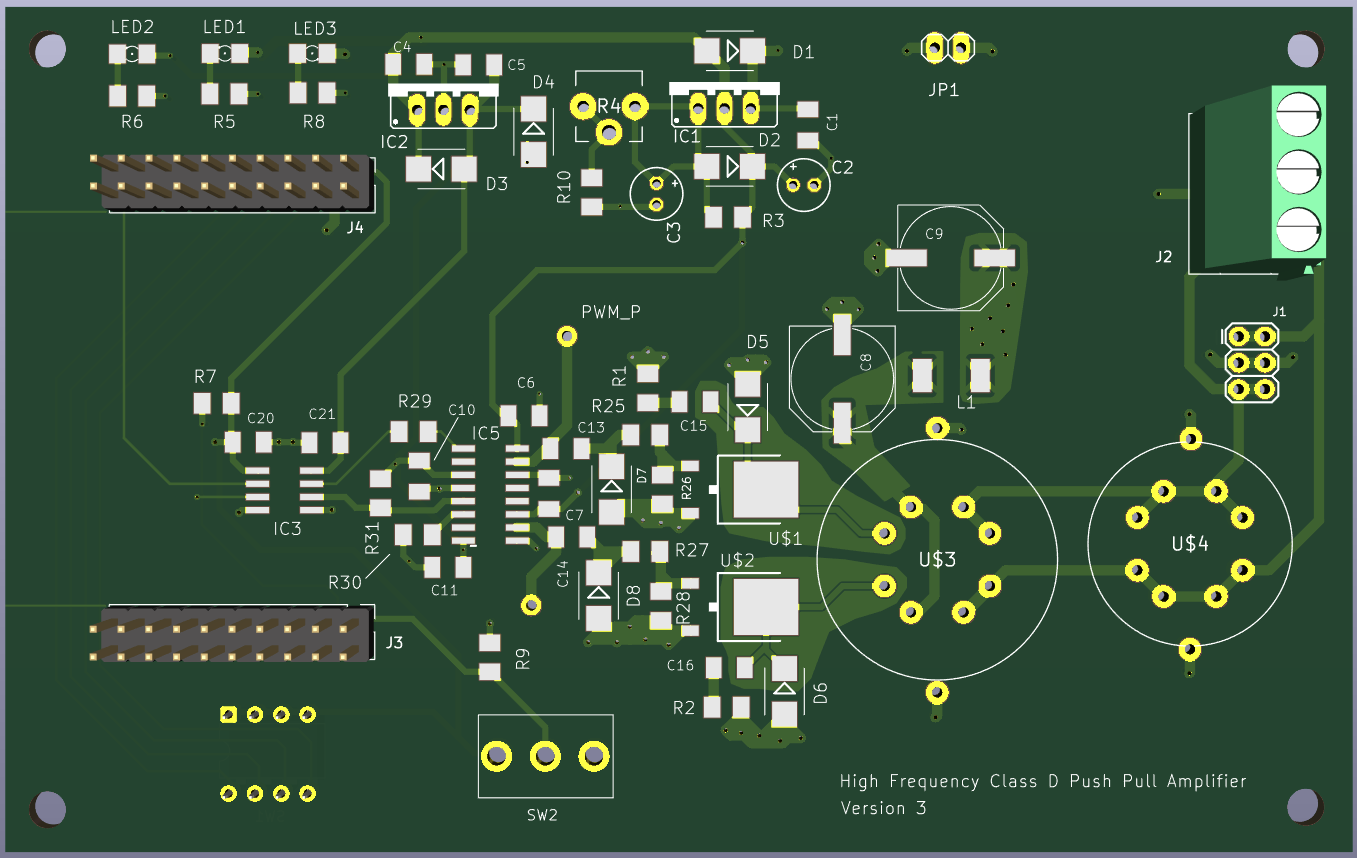
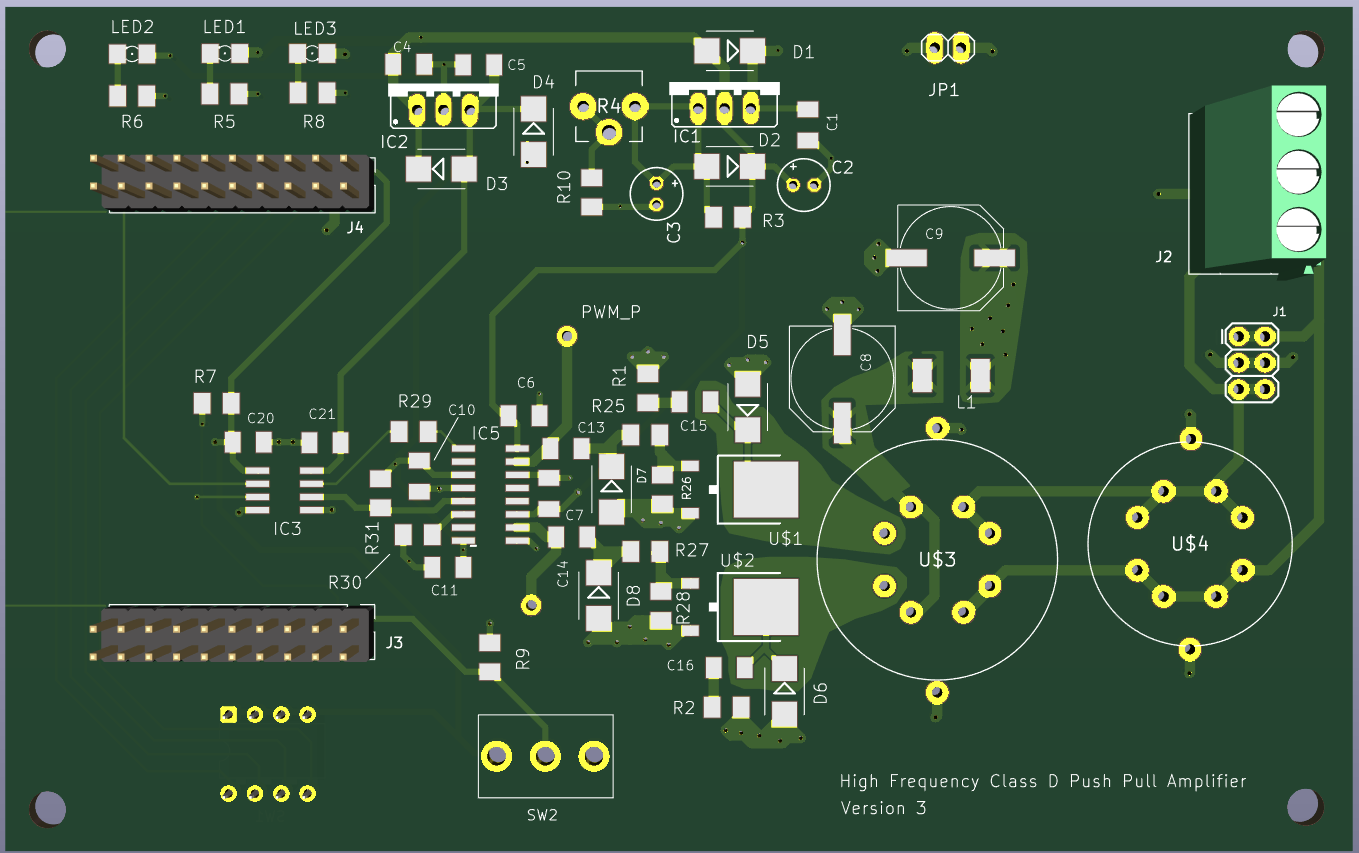
second iteration of capstone dedicated page
-also updated transmitter pcb to remove trace in the wide polygon pours.

diff --git a/project-capstone.html b/project-capstone.html
@@ -185,22 +185,20 @@
           <img src="images/capstone/capstone_receiver_lna.png" alt="Receiver LNA Topology" class="content-img">
           
           <p><strong>Instrumentation Amplifier (INA217):</strong><br>
-          Output of each hydrophone receiver is a differential twisted pair to reduce EMI interference between receiver array and the LNA boards.<br><br>
-          The instrumentation amplifier subtracts the two inputs to cancel out common noise and provides +26dB of gain to immediately boost the SNR.</p>
+          The output of each hydrophone receiver is a differential twisted pair to reduce EMI interference between the receiver array and the LNA boards. The instrumentation amplifier subtracts the two inputs to cancel out common noise and provides +26dB of gain to immediately boost the SNR.</p>
 
           <p><strong>2nd Order Bandpass Filter (ADA4841-1):</strong><br>
-          The MUSIC algorithm uses phased-based direction finding which means that inter-channel phase delay should be as close to identical as possible.<br><br>
+          The MUSIC algorithm uses phased-based direction finding which means that inter-channel phase delays should be as close to identical as possible.<br><br>
           Two steps were taken to ensure this: a Bessel response filter was used to minimize non-linear group delay effects and a Sallen-Key topology was used to minimize the number of external components needed thereby reducing component tolerance errors between channels.</p>
 
           <p><strong>VCA (VCA810):</strong><br>
-          Other options for voltage control I looked at included an op-amp with a digital potentiometer, but this would create a stepped response introducing harsh noise into the low noise system, and a digitally-controlled Programmable Gain Amplifier, but its changing discrete gain states would shift its closed-loop pole locations and therefore change the phase response whenever gain adjusts.<br><br>
-          Instead I chose to use a continuous-time voltage-controlled gain adjustment.<br><br>
+          Other options for voltage control I looked at included an op-amp with a digital potentiometer, but this would create a stepped response introducing harsh noise into the low noise system, and a digitally-controlled Programmable Gain Amplifier, but its changing discrete gain states would shift its closed-loop pole locations and therefore change the phase response whenever gain adjusts. A continuous-time voltage-controlled gain adjustment would provide the best method to correct gain without adding distortion.<br><br>
           The VCA810 was chosen because it can maintain a stable frequency response across its entire 80 dB gain range, preserving channel-to-channel phase response.<br><br>
-          By taking an analog voltage as its control input, we can vary the gain using our existing microcontroller via an SPI signal that is converted by an external DAC.</p>
+          By taking an analog voltage as its control input, the gain can be varied using the existing microcontroller in the system via an SPI signal that is converted by an external DAC to an analog voltage.</p>
 
           <p><strong>8th Order Bandpass Filter (LTC1562-2):</strong><br>
           8th-order Cascaded Sallen-Key or Multiple Feedback filters require dozens of high-precision discrete components, and even a minor 1% component tolerance mismatch across four receiver channels can generate uncorrectable channel-to-channel phase errors.<br><br>
-          The LTC1562 is a true continuous-time active RC filter network and does not utilize a clock, which allows it to have an ultra-low noise floor and zero high-frequency clock feedthrough or aliasing artifacts.<br><br>
+          The LTC1562 is a true continuous-time active RC filter network that does not utilize a clock, which allows it to have an ultra-low noise floor and zero high-frequency clock feedthrough or aliasing artifacts.<br><br>
           It also has a laser-trimmed center frequency to within 0.5% to ensure inter-channel accuracy.<br><br>
           The 8th-order bandpass filter was designed to be an elliptic Bessel filter to maximize the attenuation of low frequency signals and second and third order harmonics of the transmitted signals.</p>
 
@@ -223,12 +221,12 @@
           The 2nd-order bandpass filter is configured as a non-inverting amplifier, however, the original design had no copper pullback near the extremely high impedance input node. Also, the filter had been designed for a very high Q-factor, all of which lead to large amounts of parasitic capacitance shunting the signal immediately to ground. Since no signal would appear on the PCB after the instrumentation amplifier stage this made troubleshooting very difficult and time consuming. Similar issues occurred with the 8th order bandpass filter.</p>
 
           <h3>Testing:</h3>
-          <p><strong>SPI-to-DAC Race Condition</strong><br>
-          For each channel I needed to measure on the 'scope the phase delay added by the receivers themselves as well as each stage of the LNA. By doing this I could then hardcode in the software algorithm a calibration for each board to account for the delays. Luckily there was almost no relative difference between the boards due to all the precautions taken to mitigate non-linear phase distortion.</p>
+          <p>For each channel I needed to measure on the 'scope the phase delay added by the receivers themselves as well as each stage of the LNA. By doing this I could then hardcode in the software algorithm a calibration for each board to account for the delays. Luckily there was almost no relative difference between the boards due to all the precautions taken to mitigate non-linear phase distortion.</p>
           
           <p><strong>Multipath Echoes</strong><br>
           In order for the MUSIC direction-of-arrival algorithm to produce correct mathematical results, it is imperative that the incoming signal does not contain any correlated elements. In the case of underwater acoustic signals within our pool testing environment, these correlated elements manifest themselves as massive multipath echoes caused by the acoustic signals reflecting off the pool walls. Because the algorithm immediately breaks down when these correlated reflection signals overlap the true source signal, capturing data at the exact right moment before the echoes arrive was absolutely critical.<br><br>
-          To solve this, I designed a dedicated hardware Edge Detector project to rapidly trigger the ADC capture within 100 µs of the signal's arrival. Furthermore, as a firmware-based mitigation strategy, we utilized an energy-detection algorithm to parse the ADC buffer for the signal's rising edge. Since multipath reflections severely corrupted the data window, our ultimate solution to verify system logic was to take 30 rapid, small spatial samples instead of 1 long continuous sample. This allowed us to evaluate the data locally on a computer to confirm the system's directional accuracy despite the extreme reflections.</p>
+          To solve this, we first tried implementing a digital energy-detection algorithm to parse the ADC buffer for the signal's rising edge. This method would take over 200 µs leaving less than 100 µs for data to be collected before the signal would become corrupted. This small time window lead to unreliable results when testing in the pool; although, the results were reliable in a small tank used for testing in lab. Another method we implemented for our pool testing results was to take 30 rapid samples throughout the entire transmitted pulse duration and run the collected data through a spacial smoothing algorithm on a local computer. This required us to manually sort through the collected samples before running the algorithm, so while it worked for testing the system it is not a final working method.<br></br>
+		  Lastly, I began designing a dedicated analog Edge Detector project to rapidly trigger the ADC capture within 100 µs of the signal's arrival. The current iteration of this project latches onto the rising edge of the incoming signal within 75 µs, in simulation. A PCB has been designed and is ordered, however, I do not currently have equipment to test it.</p>
         </div>
 
         <div class="content-box">
@@ -248,10 +246,8 @@
 
         <div class="content-box">
           <h2>Future Steps</h2>
-          <p><strong>Better Power Supplies:</strong> Isolated power supplies (multiple batteries) and physically isolated ground planes are needed on the power amp board to protect the analog signals. Less switching noise requires a better pi filter and LDOs meant specifically for a 300 kHz switching frequency. We also need to make dedicated boards for power with proper, locking physical connectors.<br><br>
-          <strong>Fix DAC Layout:</strong> Ensure signal integrity and resolve communication bugs related to trace routing to the DAC.<br><br>
+          <p><strong>Better Power Supplies:</strong> Isolated power supplies (multiple batteries) and physically isolated ground planes are needed on the power amp board to properly isolated digital and sensitive analog traces from the fast-switching high-power nodes of the Class D Amplifier. <br></br> Dedicated power boards that implement a less noisy switching power supply and have a better pi filter and LDOs meant specifically for the switching frequency of the buck converter would greatly reduce noise on the DC power supplies.<br><br>
           <strong>Mechanical Integration:</strong> The receiver system must be integrated into the existing electronics infrastructure, and the hydrophone array needs to be mechanically redesigned to securely mount to the front of the drone's frame. Additionally, the electronics for the pinger need to be enclosed in a customized, watertight vessel for untethered underwater deployment.<br><br>
-          <strong>Software & Autonomy:</strong> Moving forward, incorporating more modern C++ features and an object-oriented hardware-abstraction layer could result in a more readable, maintainable codebase. Finally, the system needs to be tested with two pingers transmitting simultaneously to validate the MUSIC algorithm's multi-source tracking, and the resulting DOA estimates must be integrated directly into the AUV's main autonomy stack.</p>
         </div>
 
       </div>
